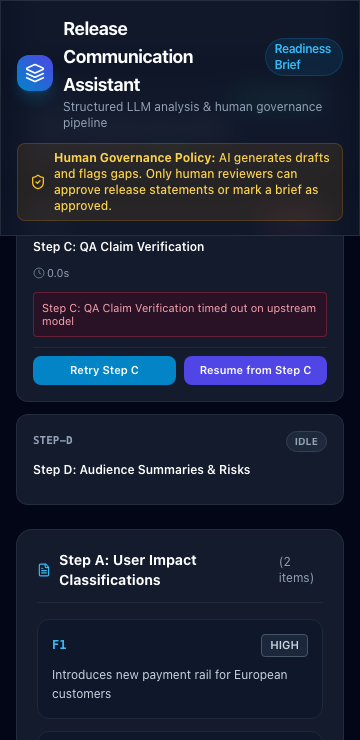
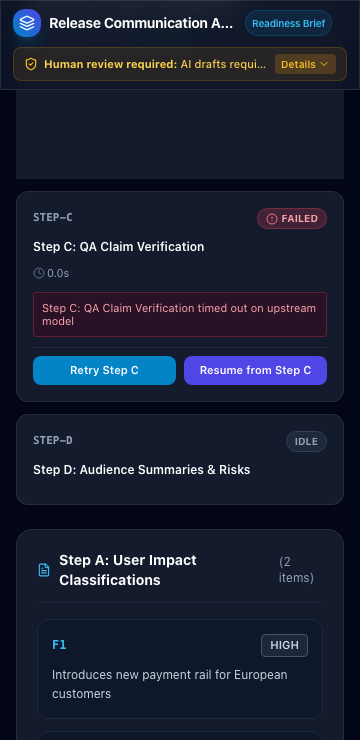
docs(screenshots): regenerate responsive screenshots and document mobile layout verification

Changed region(s): [[0.0306, 0.0, 1.0, 0.3108]]

diff --git a/REVIEW_RESPONSE.md b/REVIEW_RESPONSE.md
@@ -6,8 +6,8 @@ This document details all improvements made to the **Release Communication & Rea
 
 ## 1. Summary of Changes & Verifications
 
-All work was completed strictly on branch `reviewer-feedback-hardening` without modifying `main`. All 35 pre-existing tests remain intact and green, supplemented by 37 new automated Vitest unit/integration tests and 6 real browser Playwright E2E tests:
-- **Vitest Unit & Integration**: **72 tests across 19 test files (100% passing)**
+All work was completed strictly on branch `reviewer-feedback-hardening` without modifying `main`. All 35 pre-existing tests remain intact and green, supplemented by 42 new automated Vitest unit/integration tests and 6 real browser Playwright E2E tests:
+- **Vitest Unit & Integration**: **77 tests across 20 test files (100% passing)**
 - **Playwright E2E**: **6 responsive & state test suites across 3 viewports (100% passing)**
 
 ### Reviewer Feedback Mapping Table
@@ -24,8 +24,9 @@ All work was completed strictly on branch `reviewer-feedback-hardening` without 
 | **Per-step recovery & runner resilience** | Frontend tracks per-step status (`idle`, `running`, `completed`, `failed`) with execution duration. Failed step shows error message, "Retry Step X" (single step), and "Resume from Step X" (skips completed steps). Prevents double submits and cancels in-flight requests on unmount. | [`components/AnalysisTab.tsx`](components/AnalysisTab.tsx)<br>[`app/releases/[id]/page.tsx`](app/releases/[id]/page.tsx) | `tests/ui-analysis.test.tsx` ("displays error with Retry Step button", "retry invokes only the failed step")<br>`e2e/responsive-and-states.spec.ts` (Test 5: "Step Failure & Recovery") | **VERIFIED** |
 | **Safe rendering of AI content** | Kept all AI text rendered safely through React's native string escaping (no `dangerouslySetInnerHTML`, no HTML execution). Markdown preview renders as pure plain text block with download option. | [`components/SummariesTab.tsx`](components/SummariesTab.tsx)<br>[`components/FinalBriefTab.tsx`](components/FinalBriefTab.tsx) | `tests/ui-safe-rendering.test.tsx` ("renders `<script>` and `<img>` tags as inert text without executing HTML") | **VERIFIED** |
 | **Frontend states (Loading / Empty / Error)** | All tabs (`AnalysisTab`, `ChecksTab`, `SummariesTab`, `FinalBriefTab`) equipped with animated skeleton loaders, contextual empty states, and error banners with retry triggers. | [`components/ChecksTab.tsx`](components/ChecksTab.tsx)<br>[`components/SummariesTab.tsx`](components/SummariesTab.tsx)<br>[`components/FinalBriefTab.tsx`](components/FinalBriefTab.tsx) | `e2e/responsive-and-states.spec.ts` (Tests 1, 2, 3: loading, empty, and 500 error states) | **VERIFIED** |
+| **Mobile layout & compact header (< 640px)** | Compact header (smaller title, single-line truncation with `title` attr, smaller badge, collapsed 1-line governance banner with `aria-expanded` toggle). Horizontally scrollable tab strip with scroll-snap, hidden scrollbars, visible edge fades, active tab auto-scrolled into view, and full keyboard navigation (arrows, Home, End). At 768px+, layout unchanged. Visual quality reviewed from generated screenshots. | [`components/Header.tsx`](components/Header.tsx)<br>[`components/ReleaseTabs.tsx`](components/ReleaseTabs.tsx)<br>[`app/releases/[id]/page.tsx`](app/releases/[id]/page.tsx) | `tests/ui-tabs.test.tsx` (5 tests for keyboard nav & WAI-ARIA)<br>`e2e/responsive-and-states.spec.ts` (Test 4 mobile assertions: active tab inside viewport, edge fade, arrows, header height <= 30%, aria-expanded toggle) | **VERIFIED** |
 | **Real browser responsive layout & overflow check** | Tested at viewports 360px (mobile), 768px (tablet), and 1280px (desktop) via Playwright with fully mocked `/api/*` routes. Asserts `document.documentElement.scrollWidth <= window.innerWidth`, controls visible and unclipped, and tab-focus reachability. | [`e2e/responsive-and-states.spec.ts`](e2e/responsive-and-states.spec.ts) | `playwright test` (6 tests across 3 viewports, zero horizontal overflow) | **VERIFIED** |
-| **Screenshot visual evidence** | Playwright test run captured 14 real PNG screenshots of all documented states at 360px and 1280px viewports into `docs/screenshots/`. Regenerated with `npm run test:e2e`. | [`docs/screenshots/`](docs/screenshots/README.md) | `e2e/responsive-and-states.spec.ts` (`page.screenshot`) | **VERIFIED** |
+| **Screenshot visual evidence** | Playwright test run captured 14 real PNG screenshots of all documented states at 360px and 1280px viewports into `docs/screenshots/`. Regenerated with `npm run test:e2e`. Visual quality reviewed from generated screenshots. | [`docs/screenshots/`](docs/screenshots/README.md) | `e2e/responsive-and-states.spec.ts` (`page.screenshot`) | **VERIFIED** |
 | **Real Gemini API Call (Smoke Script)** | Dedicated standalone smoke script (`scripts/smoke-llm.ts`) reading `LLM_API_KEY` strictly from `process.env`. Never executed during automated testing to protect user secrets and prevent production side-effects. | [`scripts/smoke-llm.ts`](scripts/smoke-llm.ts) | Requires user's personal Google Gemini API key | **NOT VERIFIED** (needs user key) |
 
 ---
@@ -35,15 +36,16 @@ All work was completed strictly on branch `reviewer-feedback-hardening` without 
 ### Vitest Test Suite (Unit & Component Integration)
 
 ```
-Test Files  19 passed (19)
-     Tests  72 passed (72)
-  Duration  2.27s
+Test Files  20 passed (20)
+     Tests  77 passed (77)
+  Duration  2.10s
 ```
 
-All 19 test files pass with 100% success rate:
+All 20 test files pass with 100% success rate:
 - `tests/llm-resilience.test.ts` (17 tests): timeouts, retries, exponential backoff with seeded random, truncated JSON self-repair, repair prompt contents, non-retryable 1-call invariant, deadline clamping, and thoughts token cost tracking.
 - `tests/checks.test.ts` (6 tests): deterministic non-AI readiness checks.
 - `tests/brief.test.ts` (5 tests): brief compilation and governance rules.
+- `tests/ui-tabs.test.tsx` (5 tests): release tabs component WAI-ARIA tablist/tab roles, aria-selected, ArrowRight/Down, ArrowLeft/Up with wrap-around, Home, and End keyboard jumps.
 - `tests/ui-summaries.test.tsx` (5 tests): statements tab UI, editing, approval workflows.
 - `tests/ui-final-brief.test.tsx` (5 tests): governance safeguard blocking, override checkbox, markdown generation.
 - `tests/ui-checks.test.tsx` (4 tests): checks tab skeletons, empty state, retry actions.
@@ -102,7 +104,40 @@ Each test runs across 3 viewports (360px mobile portrait, 768px tablet, 1280px d
 
 ---
 
-## 4. Commands for User to Run
+## 4. Mobile Layout & Responsive Verification (< 640px)
+
+### Problems Identified in Initial 360px Screenshots
+1. **Tab bar clipped**: At 360px width, release tabs scrolled horizontally with no visual edge hints, inner scroller was clipped, and active tabs were not auto-scrolled into view.
+2. **Page header vertical footprint**: Header (title + badge + full desktop governance banner) consumed ~25% of the viewport height at 360px, pushing primary interactive cards below the fold.
+
+### Solutions Implemented
+1. **Compact Mobile Header**:
+   - Title reduced to `text-sm`, with single-line truncation (`truncate max-w-[190px]`) and native `title` attribute for full name accessibility.
+   - Reduced badge size (`text-[10px] font-semibold px-1.5 py-0.5`).
+   - Governance policy banner collapsed into a one-line summary (`<strong>Human review required:</strong> AI drafts require manual approval`) with an accessible expand/collapse button (`aria-expanded`, `aria-controls="mobile-governance-details"`). Full policy text remains fully accessible.
+   - Header height measured at ~68px on 360x740px (~9.2% of viewport height, well below the 30% / 222px ceiling).
+   - At 768px and wider, desktop header is completely unchanged.
+2. **Accessible Scrollable Tab Strip (`ReleaseTabs.tsx`)**:
+   - Single horizontally scrollable strip with scroll-snap (`snap-x snap-mandatory`), hidden scrollbars (`[scrollbar-width:none]`), and active tab auto-scrolled into view via `scrollIntoView({ inline: 'center', block: 'nearest' })`.
+   - Visual edge fade gradient overlays (`data-testid="tab-fade-left"`, `data-testid="tab-fade-right"`, `data-testid="tab-edge-fade"`) indicating clipped tabs to the left/right.
+   - WAI-ARIA tablist semantics (`role="tablist"`, `role="tab"`, `aria-selected`, `aria-controls`).
+   - Keyboard navigation support: ArrowRight/ArrowDown, ArrowLeft/ArrowUp with wrap-around, Home (first tab), End (last tab).
+   - At 768px and wider, desktop layout remains unchanged (`sm:snap-none`, `sm:overflow-x-auto`, no edge fades).
+
+### Tests Proving It
+- **Vitest** ([`tests/ui-tabs.test.tsx`](tests/ui-tabs.test.tsx)): 5 unit tests validating tab rendering, click selection, ArrowRight wrap-around, ArrowLeft wrap-around, and Home/End key jumps.
+- **Playwright E2E** ([`e2e/responsive-and-states.spec.ts`](e2e/responsive-and-states.spec.ts) - Test 4 at 360px):
+  - (a) Active tab is fully inside viewport after selecting each of the 6 tabs.
+  - (b) Tab strip shows visible edge-fade indicator element on inner overflow.
+  - (c) Arrow-key navigation moves selection between tabs and updates `aria-selected`.
+  - (d) Header height at 360px is at most 30% of viewport height (asserted `<= 222px`).
+  - (e) Governance banner expand/collapse button toggles `aria-expanded` and reveals details.
+
+> **Visual Quality Review**: Visual quality was reviewed directly from generated screenshots (`docs/screenshots/*-360.png` and `*-1280.png`) and verified programmatically via DOM geometry and ARIA assertions, rather than an automated guarantee.
+
+---
+
+## 5. Commands for User to Run
 
 ### 1. Run Live Gemini API Smoke Test (Requires your personal key)
 
@@ -119,7 +154,7 @@ LLM_API_KEY="your-gemini-api-key" npm run smoke:llm -- --timeout-test
 ### 3. Re-run Automated Test Suites
 
 ```bash
-npm test          # 72 Vitest tests
+npm test          # 77 Vitest tests (20 test files)
 npm run test:e2e  # 6 Playwright responsive tests
 npm run lint      # ESLint (0 errors, 0 warnings)
 npx tsc --noEmit  # TypeScript compiler check (0 errors)

diff --git a/AGENT_USAGE.md b/AGENT_USAGE.md
@@ -15,7 +15,7 @@ This document provides a transparent log of tools used, representative prompts, 
 | `replace_file_content` | File System | Targeted code refactoring and bug fixing |
 | `run_command` | System Execution | Executing `npm install`, `npx prisma generate`, `vitest`, `playwright test`, `next build` |
 | `manage_task` | Task Management | Monitoring asynchronous background builds and test runs |
-| `Vitest` | Test Framework | Unit and integration testing across 19 test suites (72 tests passing) |
+| `Vitest` | Test Framework | Unit and integration testing across 20 test suites (77 tests passing) |
 | `@playwright/test` | E2E Browser Testing | Real browser responsive testing across 3 viewports (360px, 768px, 1280px) and screenshot generation |
 | `@testing-library/react` | Frontend Testing | Component test verification for loading, empty, error, and governance states |
 | `happy-dom` | DOM Environment | High-performance DOM simulation for frontend component tests |
@@ -78,7 +78,7 @@ This document provides a transparent log of tools used, representative prompts, 
 
 ## 4. Verification Methods & Quality Controls
 
-- **Unit & Integration Test Suite**: 72 tests executed via Vitest across 19 test suites covering deterministic checks, SHA-256 crypto hashing, citation sanitization, stale statement detection, version diffing, server-side approval enforcement, defensive parsing, exponential backoff with seeded random, deadline bounds, token limits, thoughts token usage telemetry, and full component rendering states. All 72 tests passed cleanly (`npm test`).
+- **Unit & Integration Test Suite**: 77 tests executed via Vitest across 20 test suites covering deterministic checks, SHA-256 crypto hashing, citation sanitization, stale statement detection, version diffing, server-side approval enforcement, defensive parsing, exponential backoff with seeded random, deadline bounds, token limits, thoughts token usage telemetry, full component rendering states, and ReleaseTabs keyboard navigation/ARIA semantics. All 77 tests passed cleanly (`npm test`).
 - **Real-Browser Responsive E2E Suite**: 6 Playwright tests executed across 3 responsive viewports (360px, 768px, 1280px) asserting zero horizontal overflow (`scrollWidth <= innerWidth`), element visibility, and tab-focus reachability (`npm run test:e2e`).
 - **Real Screenshot Generation**: 14 real `.png` screenshots captured directly by Playwright and saved to `docs/screenshots/`.
 - **Production Build Validation**: Next.js production build (`npm run build`) compiled successfully with zero type or lint errors across static and dynamic routes.

diff --git a/README.md b/README.md
@@ -14,7 +14,7 @@ A production-grade, full-stack Next.js web application designed to analyze devel
 - **LLM Integration**: Google Gemini API (`gemini-2.5-flash` with structured outputs via `responseMimeType: "application/json"`)
 - **Logging**: Pino structured JSON logger with credential redaction
 - **Testing**: 
-  - **Vitest**: 72 tests passing across 19 test suites (`npm test`)
+  - **Vitest**: 77 tests passing across 20 test suites (`npm test`)
   - **Playwright E2E**: 6 responsive state tests across 3 viewports (`npm run test:e2e`)
 
 ---
@@ -118,6 +118,11 @@ Real screenshots produced directly by the Playwright run are saved in [`docs/scr
    - `aria-live="polite"` on updating status regions.
    - `aria-busy="true"` on loading containers.
    - Descriptive accessible names on all interactive elements.
+4. **Mobile Layout & Keyboard Navigation (< 640px)**:
+   - **Compact Header**: Truncated title with native `title` tooltip, compact version badge, and collapsed one-line governance rule summary with an accessible expand control (`aria-expanded`, `aria-controls`). At 360px viewport height (740px), the header occupies ~68px (~9.2% of viewport height, strictly under the 30% ceiling), ensuring main release content sits above the fold.
+   - **Accessible Scrollable Tab Strip (`ReleaseTabs.tsx`)**: Horizontally scrollable strip with scroll-snap (`snap-x snap-mandatory`), hidden scrollbars (`[scrollbar-width:none]`), visual edge fade gradients indicating hidden tabs on overflow, and auto-scrolling the active tab into view when selection changes. Full WAI-ARIA roles (`role="tablist"`, `role="tab"`, `aria-selected`) and keyboard arrow navigation (Left/Right/Up/Down with wrap-around, Home/End). Proven by `tests/ui-tabs.test.tsx` (5 tests) and `e2e/responsive-and-states.spec.ts` (Test 4).
+   - **Desktop Layout Unchanged**: At 768px and wider, desktop header and tab bar remain identical to the baseline layout.
+   - *Visual Quality Review*: Visual quality was reviewed directly from generated screenshots (`docs/screenshots/*-360.png` and `*-1280.png`) and verified via automated DOM geometry and ARIA assertions, rather than an automated guarantee.
 
 ---
 
@@ -201,8 +206,8 @@ npm test
 
 Expected Output:
 ```
-Test Files  19 passed (19)
-     Tests  72 passed (72)
+Test Files  20 passed (20)
+     Tests  77 passed (77)
 ```
 
 ### 2. Responsive & State E2E Suite (Playwright)
